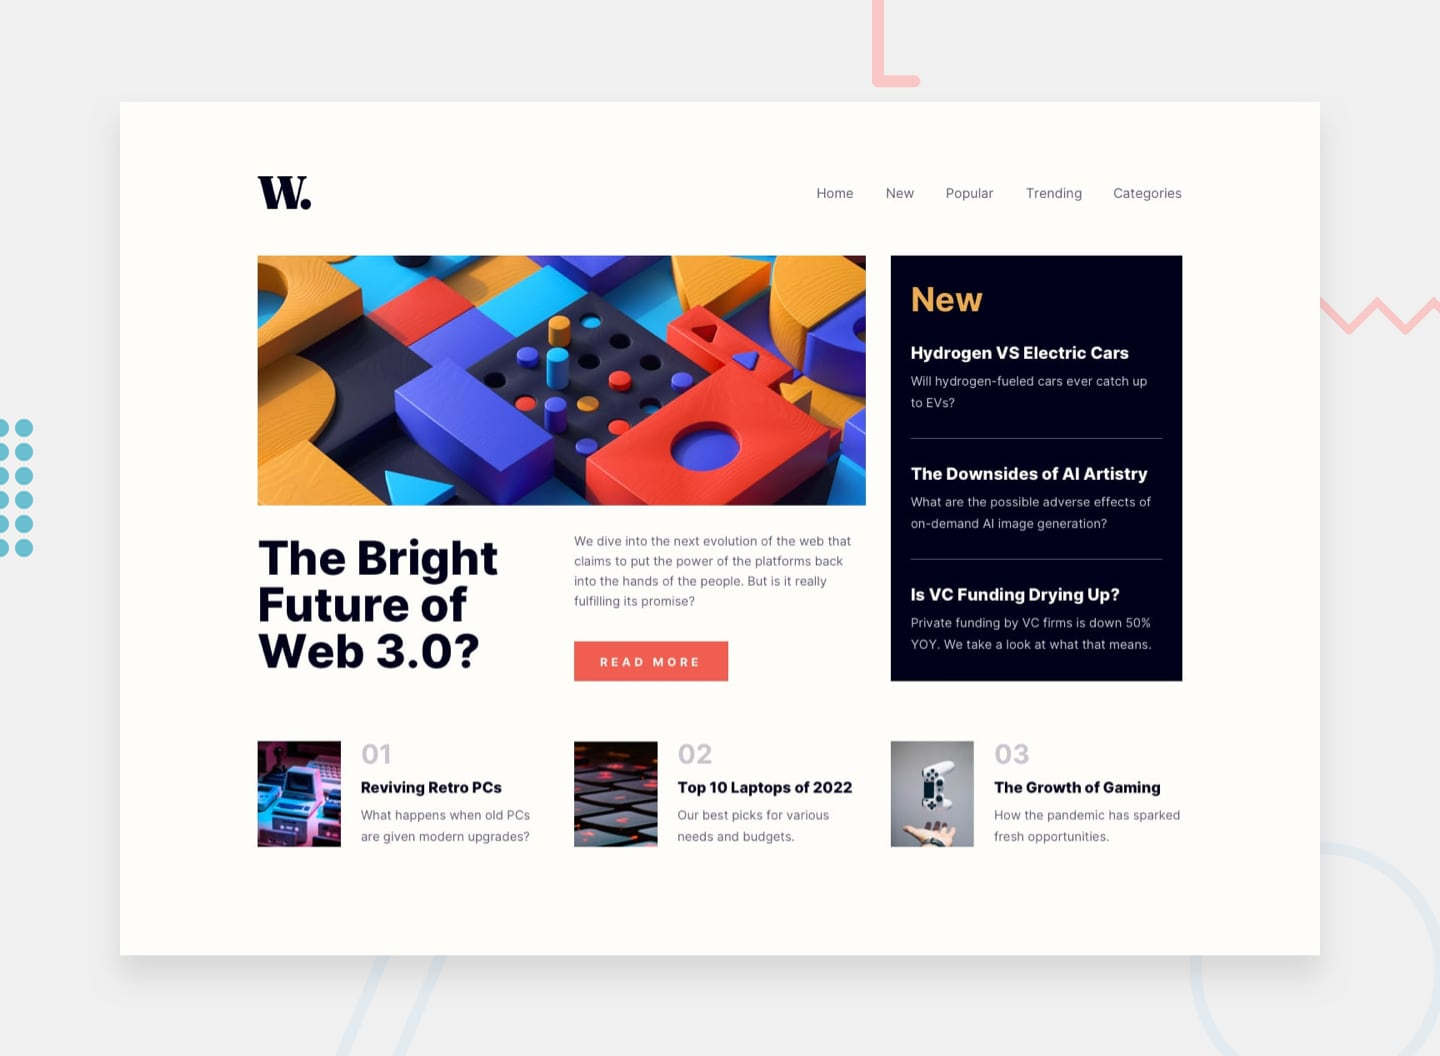
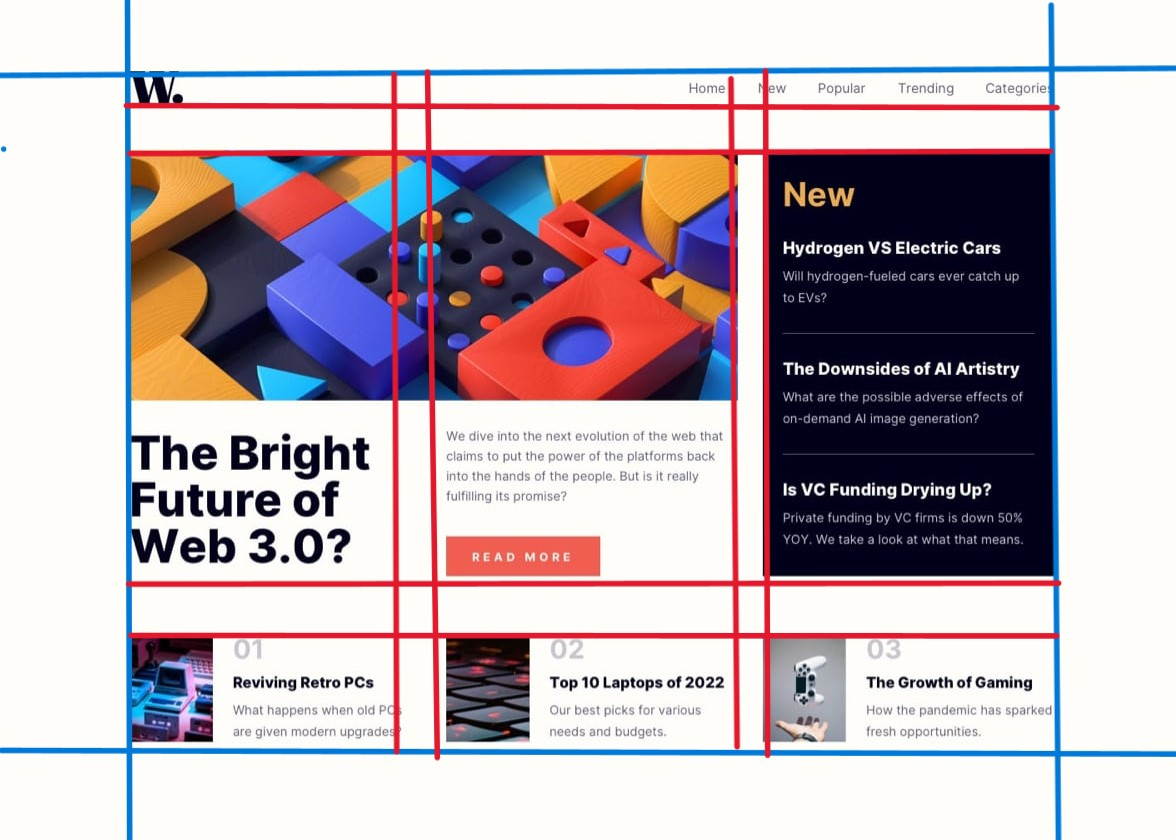
added html structure

diff --git a/index.html b/index.html
@@ -2,21 +2,104 @@
 <html lang="en">
 <head>
   <meta charset="UTF-8">
-  <meta name="viewport" content="width=device-width, initial-scale=1.0"> <!-- displays site properly based on user's device -->
-
-  <link rel="icon" type="image/png" sizes="32x32" href="./assets/images/favicon-32x32.png">
-  
-  <title>Frontend Mentor | News homepage</title>
-
-  <!-- Feel free to remove these styles or customise in your own stylesheet 👍 -->
-  <style>
-    .attribution { font-size: 11px; text-align: center; }
-    .attribution a { color: hsl(228, 45%, 44%); }
-  </style>
+  <meta name="viewport" content="width=device-width, initial-scale=1.0">
+  <link rel="stylesheet" href="style.css">
 </head>
 <body>
-
+  <header>
+    <div id="header-body">
+      <img src="/assets/images/logo.svg" alt="">
+      <img src="/assets/images/icon-menu.svg" alt="" id="menu">
+    </div>
+    <div id="header-content">
+      <a href="">Home</a>
+      <a href="">New</a>
+      <a href="">Popular</a>
+      <a href="">Trending</a>
+      <a href="">Categories</a>
+    </div>
+  </header>
+  <div id="main-body">
+    <div id="main-article">
+      <picture>
+        <source
+          media="(max-width:800px)"
+          srcset="./assets/images/image-web-3-mobile.jpg"
+        />
+        <img src="./assets/images/image-web-3-desktop.jpg" alt="web3" />
+      </picture>
+      <div id="main-article-content">
+        <h1>The Bright Future of Web 3.0</h1>
+        <p>We dive into the next evolution of the web that claims to put the power of the platforms back into the hands of the people. 
+          But is it really fulfilling its promise?</p>
+        <input type="button" value="READ MORE">
+      </div>
   </div>
+  <div id="main-side-bar">
+    <h2>New</h2>
+    <ul>
+      <nav>
+      <a href="#"><li>
+        <p>
+          <b>
+            Hydrogen vs Electric Cars
+          </b>
+        </p>
+        <p>
+          Will hydrogen-fueled cars ever catch up to EVs?
+        </p>
+        </li><hr>
+      </a>
+      <a href="#"><li>
+          <p>
+            <b>
+              Hydrogen vs Electric Cars
+            </b>
+          </p>
+          <p>
+            Will hydrogen-fueled cars ever catch up to EVs?
+          </p>
+        </li>
+      </a><hr>
+      <a href="#"><li>
+          <p>
+            <b>
+              Hydrogen vs Electric Cars
+            </b>
+          </p>
+          <p>
+            Will hydrogen-fueled cars ever catch up to EVs?
+          </p>
+        </li>
+      </a><hr>
+      </nav>
+    </ul>
+  </div>
+    
+  </div>
+  <footer>
+    <div id="footer-body">
+      <div id="footer-1" class="footer-child">
+        <img src="/assets/images/image-retro-pcs.jpg" alt="">
+        <h2>01</h2>
+        <p><b>Reviving Retro PCs</b><p>What happens when old PCs are given modern upgrades?</p></p>
+      </div>
+      <div id="footer-2" class="footer-child">
+        <img src="/assets/images/image-top-laptops.jpg" alt="">
+        <h2>02</h2>
+        <p><b>Top 10 Laptops of 2022</b><p>
+          Our best picks for carous needs and budgets
+        </p></p>
+      </div>
+      <div id="footer-3" class="footer-child">
+        <img src="/assets/images/image-gaming-growth.jpg" alt="">
+        <h2>03</h2>
+        <p><b>The Growth of Gaming</b><p class="">
+          How the pandemic has sparked fresh oppurtunities.
+        </p></p>
+      </div>
+    </div>
+  </footer>
 </body>
 </html>
 <!-- 
@@ -28,8 +111,7 @@ Categories
 
 The Bright Future of Web 3.0?
 
-We dive into the next evolution of the web that claims to put the power of the platforms back into the hands of the people. 
-But is it really fulfilling its promise?
+
 
 Read more
 
